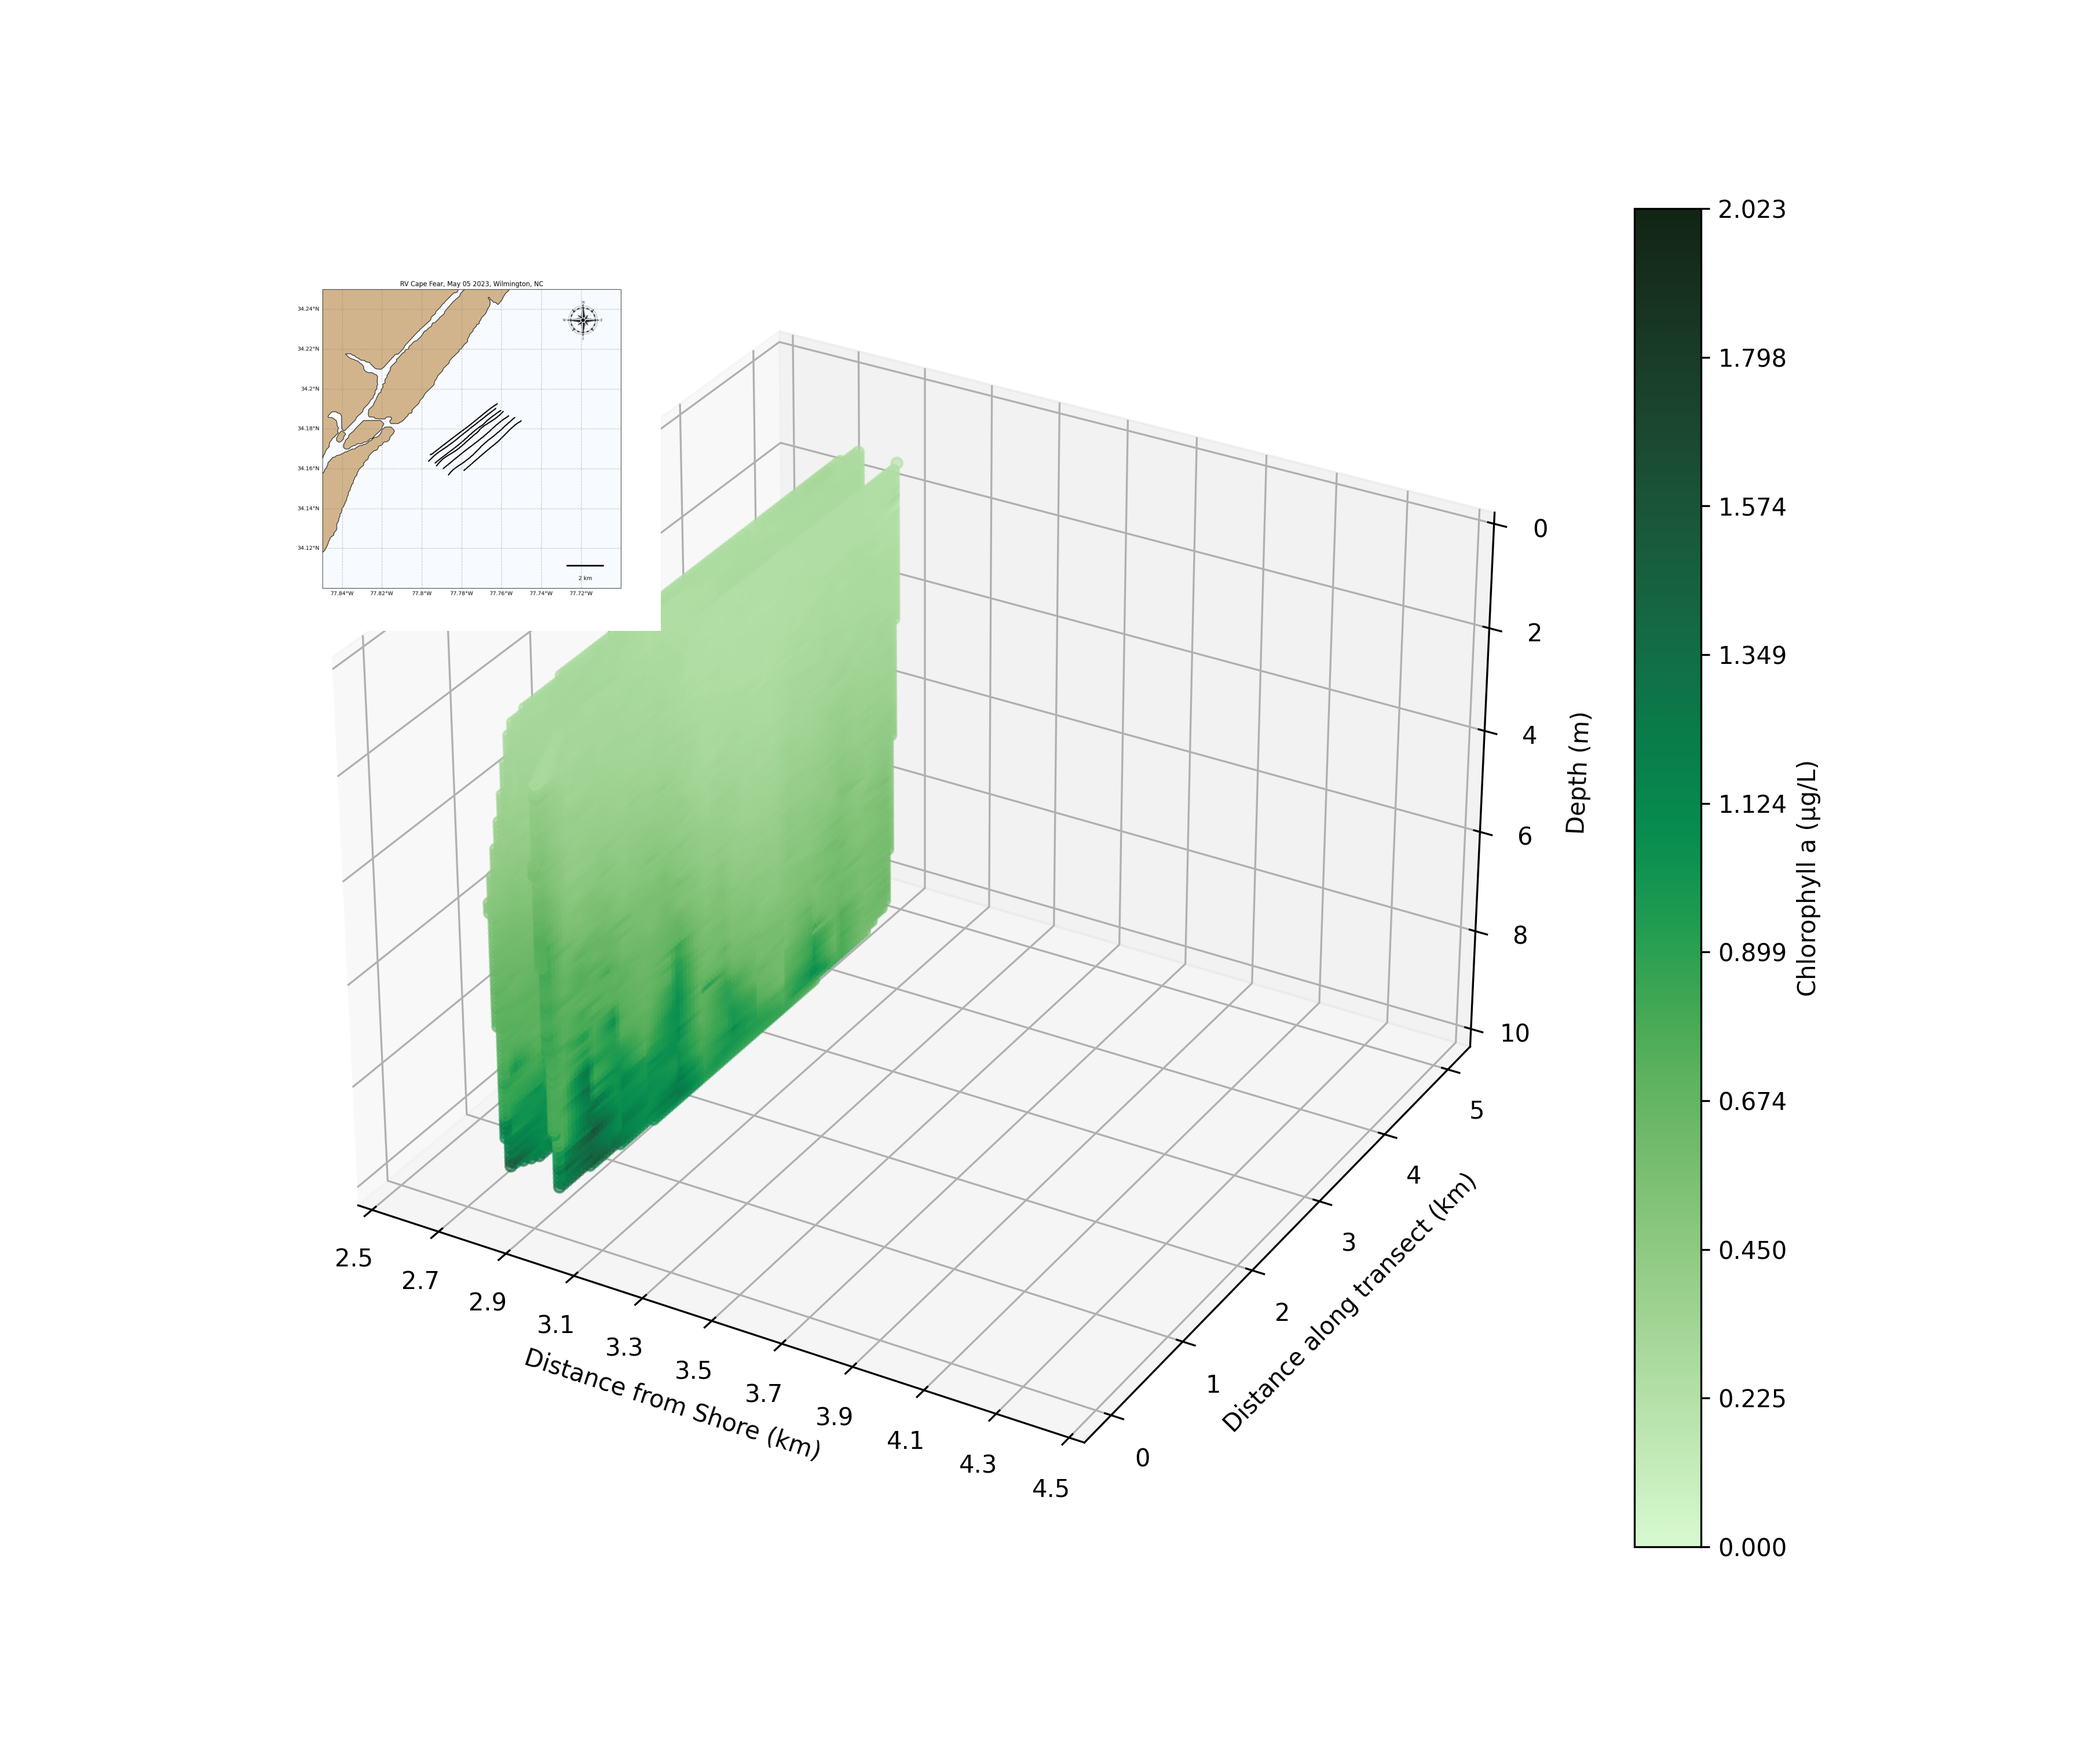
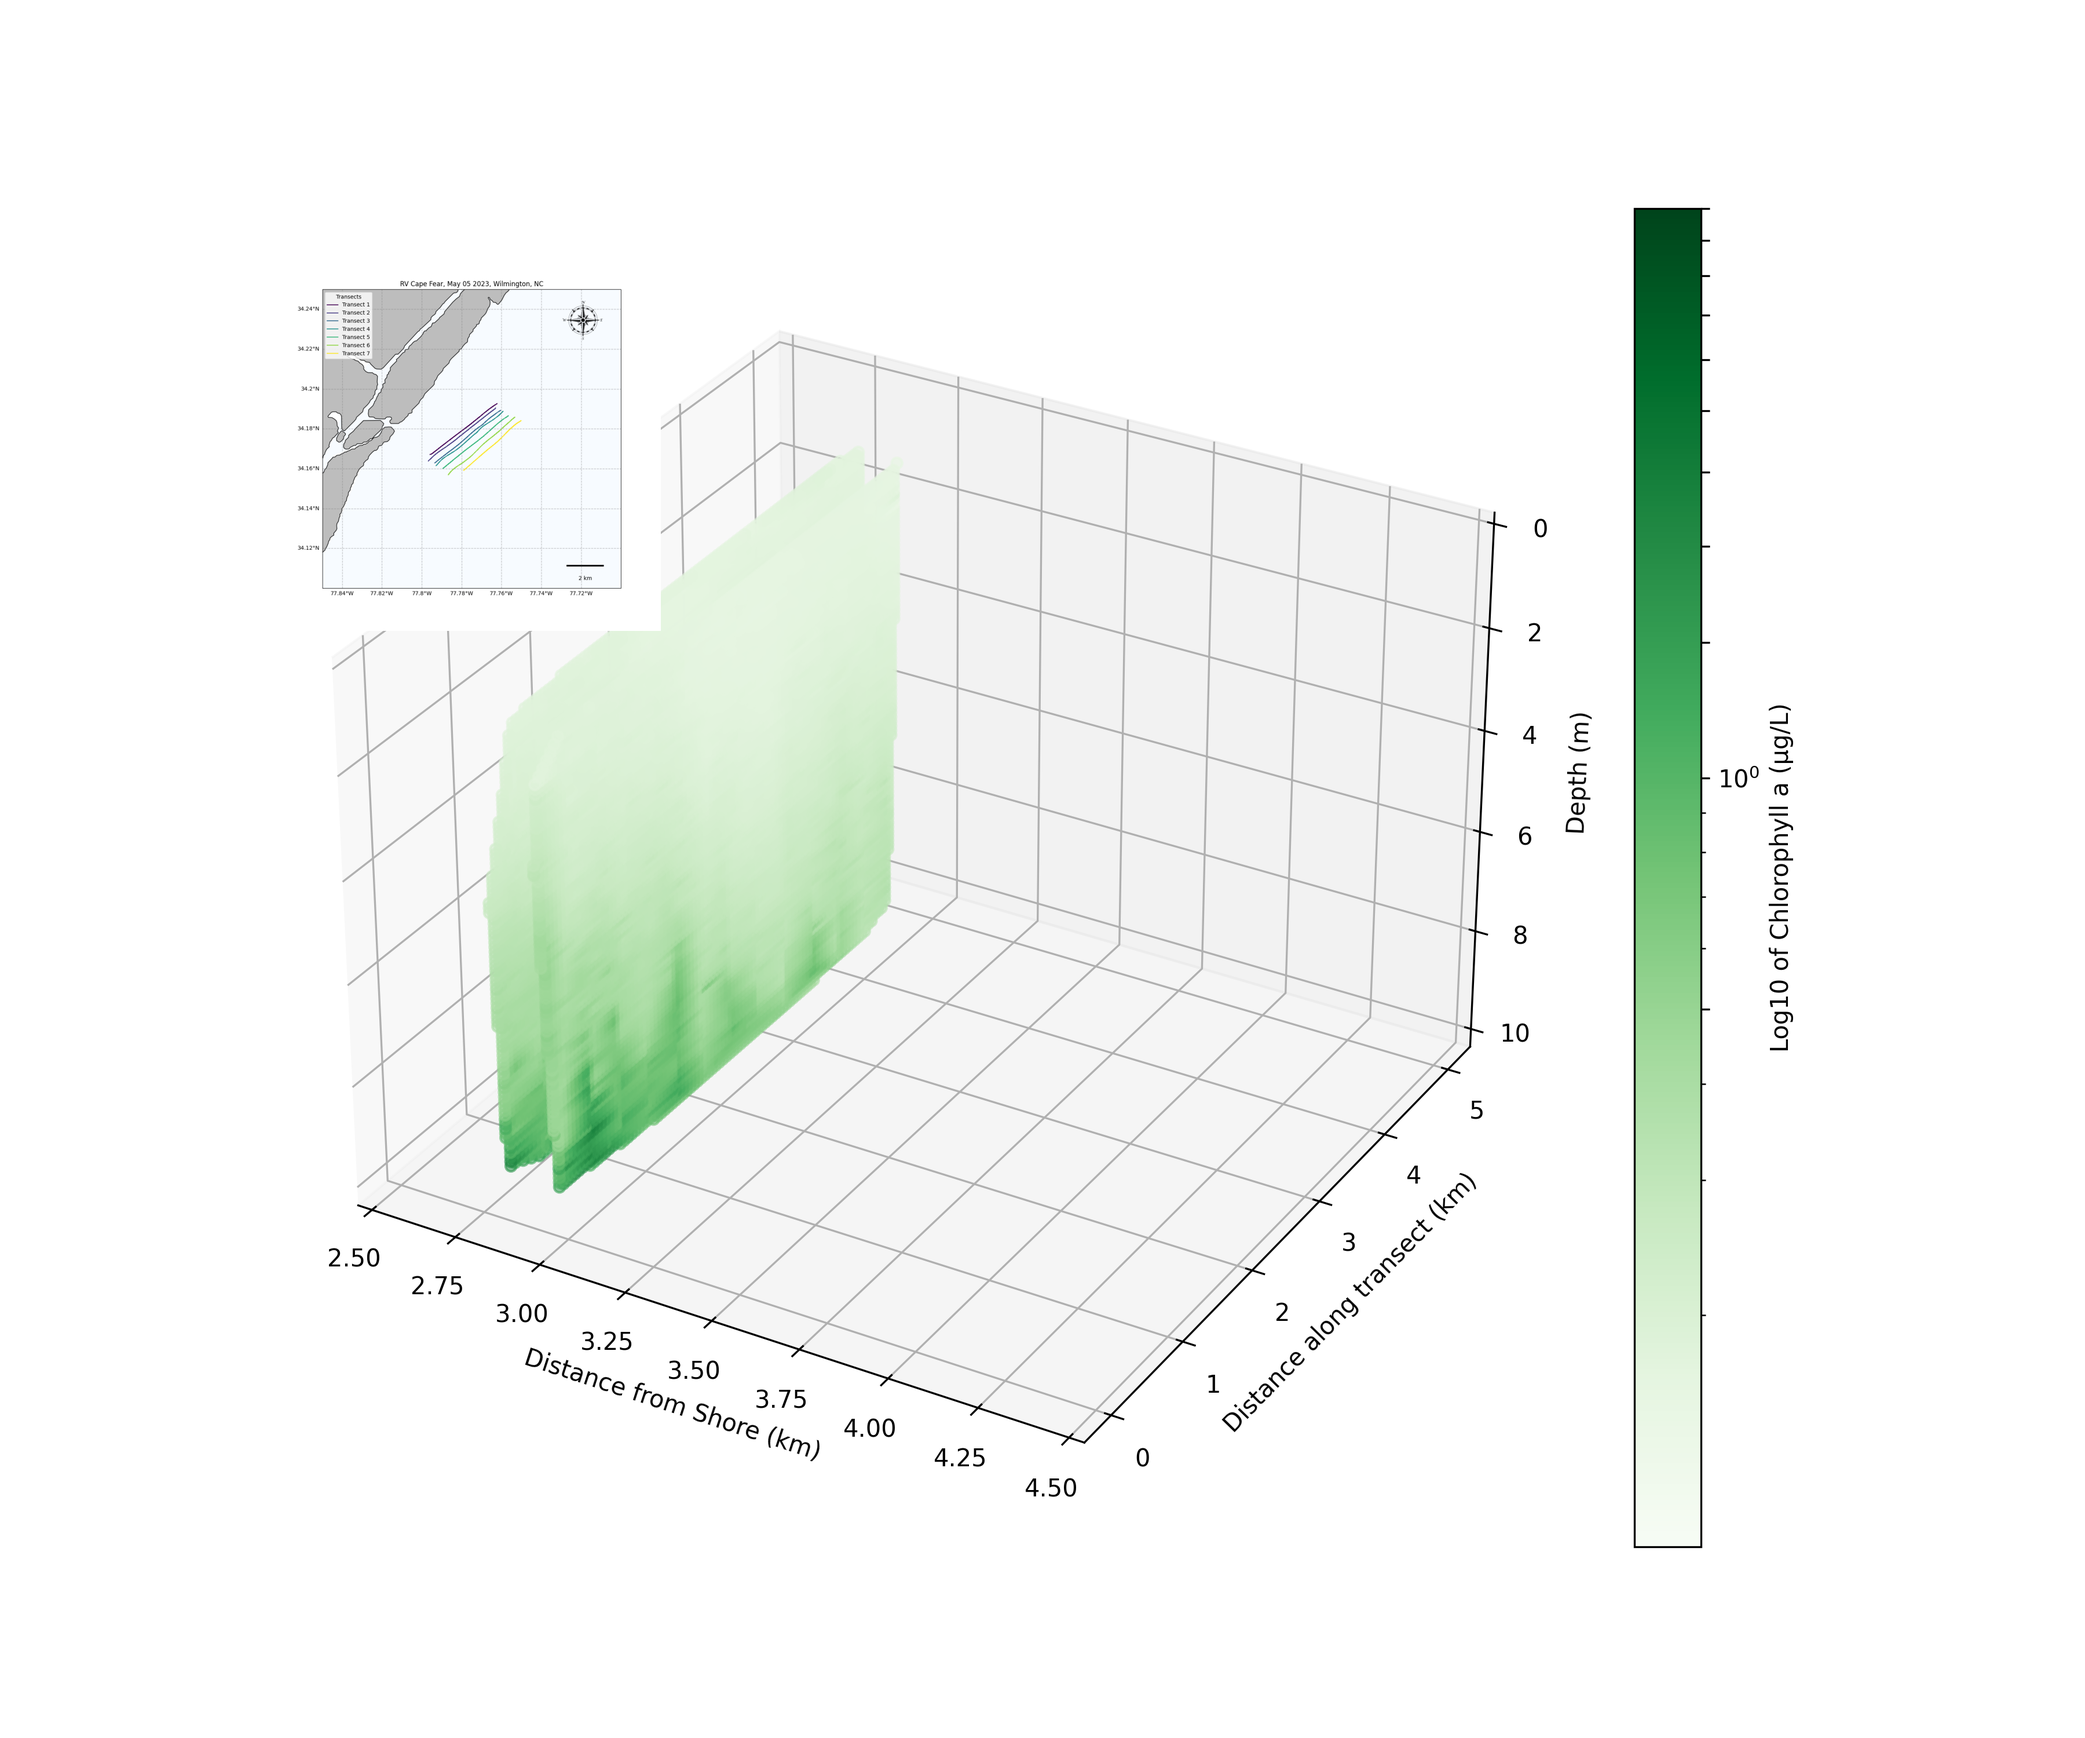
contour plot updates

diff --git a/python_programs/3d_contours_exp.py b/python_programs/3d_contours_exp.py
@@ -5,11 +5,12 @@ import numpy as np
 import pandas as pd
 import os
 import cmocean
-import rasterio
 from scipy.interpolate import griddata
+from matplotlib.colors import LogNorm
 from mpl_toolkits.axes_grid1.inset_locator import inset_axes
 from tqdm import tqdm
 from PIL import Image
+
 
 INTERPOLATION_METHOD = 'linear' # linear, cubic, nearest
 DATA_TYPE = 'chlor_a'  # options are 'temp', 'salinity', 'density', 'turbidity', 'cdom', 'chlor_a', 'ox_sat'
@@ -29,7 +30,7 @@ colormap_and_label = {
     'density': (cmocean.cm.dense, 'Density (kg/m³)'),
     'turbidity': (cmocean.cm.turbid, 'Turbidity (NTU)'),
     'cdom': (cmocean.cm.matter, 'CDOM'),
-    'chlor_a': (cmocean.cm.algae, 'Chlorophyll a (µg/L)'),
+    'chlor_a': (plt.cm.Greens, 'Chlorophyll a (µg/L)'),
     'ox_sat': (cmocean.cm.oxy, 'Oxygen Saturation (%)')
 }
 
@@ -66,15 +67,12 @@ def get_global_min_max(file_names):
     global_max_values[DATA_TYPE] = max(global_max)
     return min(global_min_depth), max(global_max_depth)
 
+
 def plot_3D_transects(file_names, global_min, global_max, global_min_depth, global_max_depth, upto_idx):
-    colormap, data_label = colormap_and_label.get(DATA_TYPE, (cmocean.cm.haline, f'{DATA_TYPE.capitalize()} value'))
-
-    global_min = global_min_values[DATA_TYPE]
-    global_max = global_max_values[DATA_TYPE]
-
+    colormap, data_label = colormap_and_label[DATA_TYPE]
     fig = plt.figure(figsize=(12, 10))
     ax = fig.add_subplot(111, projection='3d')
-    
+
     distances_from_shore = []
     
     dfs = []  # Store DataFrames after reading them
@@ -87,7 +85,7 @@ def plot_3D_transects(file_names, global_min, global_max, global_min_depth, glob
         distances_from_shore.append(distance_from_shore)
     
     sorted_files_and_dfs = sorted(zip(distances_from_shore, dfs, file_names))
-    
+
     # Only loop through transects up to the specified index
     for idx, (distance, df, fname) in enumerate(sorted_files_and_dfs[:upto_idx + 1]):
         print(f"Interpolating and visualizing data for file: {fname}...")
@@ -122,23 +120,17 @@ def plot_3D_transects(file_names, global_min, global_max, global_min_depth, glob
 
         # Plotting
         ax.scatter(xi, yi, zi, c=colors.flatten(), cmap=colormap, marker='o', alpha=0.6, vmin=global_min, vmax=global_max)
-
+        
     ax.set_xlabel('Distance from Shore (km)')
     ax.set_ylabel('Distance along transect (km)')
     ax.set_zlabel('Depth (m)')
-
     ax.set_xlim(2.5, 4.5)
-    tick_spacing = (4.5 - 2.5) / 10
-    ax.set_xticks(np.arange(2.5, 4.5 + tick_spacing, tick_spacing))
-    
     ax.set_ylim(ax.get_ylim())
     ax.set_zlim(global_max_depth, 0)
-    
-    sm = plt.cm.ScalarMappable(cmap=colormap, norm=plt.Normalize(vmin=global_min, vmax=global_max))
+    sm = plt.cm.ScalarMappable(cmap=colormap, norm=LogNorm(vmin=0.1, vmax=5.5))
     sm.set_array([])
-    cbar_ticks = np.linspace(global_min, global_max, 10)
-    cbar = plt.colorbar(sm, ax=ax, ticks=cbar_ticks) 
-    cbar.set_label(data_label)
+    cbar = plt.colorbar(sm, ax=ax, ticks=np.linspace(0, 5.5, 12)) 
+    cbar.set_label('Log10 of Chlorophyll a (µg/L)')
 
     axins = inset_axes(ax, width="30%", height="30%", loc='upper left')
     img = plt.imread(INSET_MAP)
@@ -154,13 +146,11 @@ def plot_3D_transects(file_names, global_min, global_max, global_min_depth, glob
 
 def create_gif(image_folder, gif_path, duration=1000):
     images = []
-    for file_name in sorted(os.listdir(image_folder)):
-        if file_name.endswith('.png'):
-            file_path = os.path.join(image_folder, file_name)
-            images.append(Image.open(file_path))
+    for i in range(1, 8):
+        file_path = os.path.join(image_folder, f'upto_transect_{i}.png')
+        images.append(Image.open(file_path))
 
     images[0].save(gif_path, save_all=True, append_images=images[1:], optimize=False, duration=duration, loop=0)
-    print(f"GIF saved at {gif_path}")
 
 def main():
     if not os.path.exists(SAVE_DIR):
